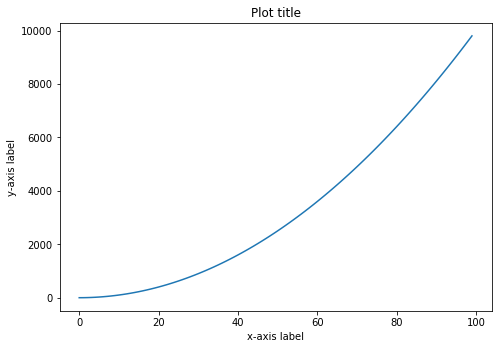
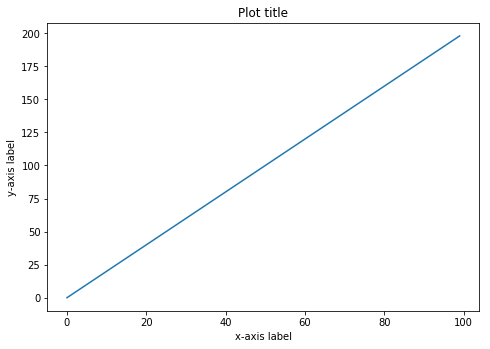
changed graph from z to y

diff --git a/README.md b/README.md
@@ -74,7 +74,7 @@ Perform the following steps in the cell below:
 ```python
 fig = plt.figure()
 ax = fig.add_axes([0,0,1,1])
-ax.plot(x,z)
+ax.plot(x,y)
 ax.set_xlabel('x-axis label')
 ax.set_ylabel('y-axis label')
 ax.set_title('Plot title')
@@ -167,7 +167,63 @@ plt.show()
 ```
 
 
-![png](index_files/index_11_0.png)
+    ---------------------------------------------------------------------------
+
+    ValueError                                Traceback (most recent call last)
+
+    <ipython-input-6-2aac841c71db> in <module>()
+          5 
+          6 ax.plot(x, y, color='red', linewidth=3, linestyle = ':')
+    ----> 7 ax2.plot(x, z, color='blue', linewidth=5, linestyle = '-.')
+          8 
+          9 ax.set_xlabel('variable - x')
+
+
+    ~/anaconda3/lib/python3.6/site-packages/matplotlib/__init__.py in inner(ax, *args, **kwargs)
+       1853                         "the Matplotlib list!)" % (label_namer, func.__name__),
+       1854                         RuntimeWarning, stacklevel=2)
+    -> 1855             return func(ax, *args, **kwargs)
+       1856 
+       1857         inner.__doc__ = _add_data_doc(inner.__doc__,
+
+
+    ~/anaconda3/lib/python3.6/site-packages/matplotlib/axes/_axes.py in plot(self, *args, **kwargs)
+       1525         kwargs = cbook.normalize_kwargs(kwargs, _alias_map)
+       1526 
+    -> 1527         for line in self._get_lines(*args, **kwargs):
+       1528             self.add_line(line)
+       1529             lines.append(line)
+
+
+    ~/anaconda3/lib/python3.6/site-packages/matplotlib/axes/_base.py in _grab_next_args(self, *args, **kwargs)
+        404                 this += args[0],
+        405                 args = args[1:]
+    --> 406             for seg in self._plot_args(this, kwargs):
+        407                 yield seg
+        408 
+
+
+    ~/anaconda3/lib/python3.6/site-packages/matplotlib/axes/_base.py in _plot_args(self, tup, kwargs)
+        381             x, y = index_of(tup[-1])
+        382 
+    --> 383         x, y = self._xy_from_xy(x, y)
+        384 
+        385         if self.command == 'plot':
+
+
+    ~/anaconda3/lib/python3.6/site-packages/matplotlib/axes/_base.py in _xy_from_xy(self, x, y)
+        240         if x.shape[0] != y.shape[0]:
+        241             raise ValueError("x and y must have same first dimension, but "
+    --> 242                              "have shapes {} and {}".format(x.shape, y.shape))
+        243         if x.ndim > 2 or y.ndim > 2:
+        244             raise ValueError("x and y can be no greater than 2-D, but have "
+
+
+    ValueError: x and y must have same first dimension, but have shapes (21,) and (100,)
+
+
+
+![png](index_files/index_11_1.png)
 
 
 ## Exercise 5
@@ -194,10 +250,6 @@ ax2.set_title ('Right Plot')
 
 plt.show()
 ```
-
-
-![png](index_files/index_13_0.png)
-
 
 Congratulations! You've now learned the basics of plotting, labeling and customizing plot with matplotlib. The following lessons will focus on employing these techniques to plot multiple data types in different contexts. 
 
